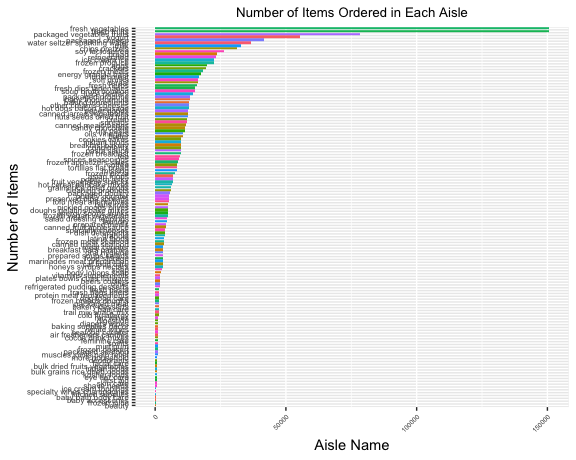
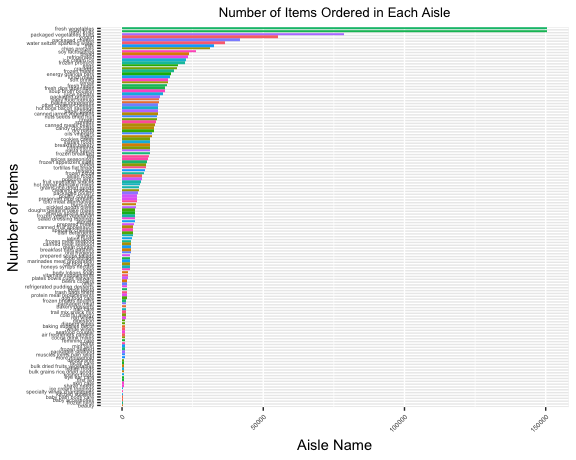
Checking plots again

diff --git a/p8105_hw3_edm2152.md b/p8105_hw3_edm2152.md
@@ -91,7 +91,7 @@ brfss_data %>%
   ggplot(aes(x = year, y = mean_value, color = state)) +
   geom_line() +
   facet_grid(~mean_variable) + 
-  labs(title = "Average Proportion in Each Response Category by State and Year",
+  labs(title = "Average Proportion in Each Response Category",
        x = "Year",
        y = "Average Proportion",
        caption = "Data from the BRFSS SMART dataset 2002-2010") +
@@ -174,7 +174,7 @@ instacart_data %>%
        x = "Number of Items",
        y = "Aisle Name") +
   theme(axis.text.x = element_text(angle = 45, hjust = 1, size = 5),
-        axis.text.y = element_text(size = 6),
+        axis.text.y = element_text(size = 4),
         legend.position = "none",
         legend.text = element_text(angle = 45, hjust = 1),
         plot.title = element_text(hjust = 0.5, size = 10))
